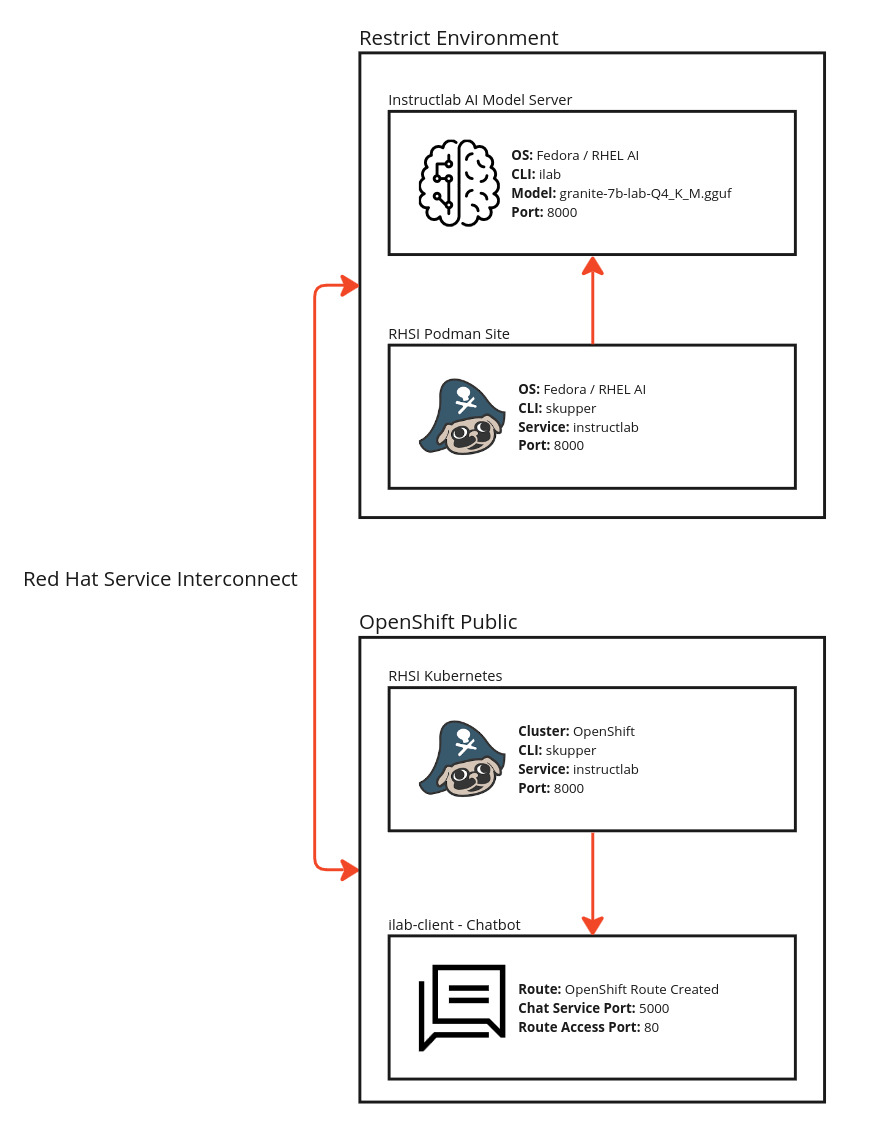
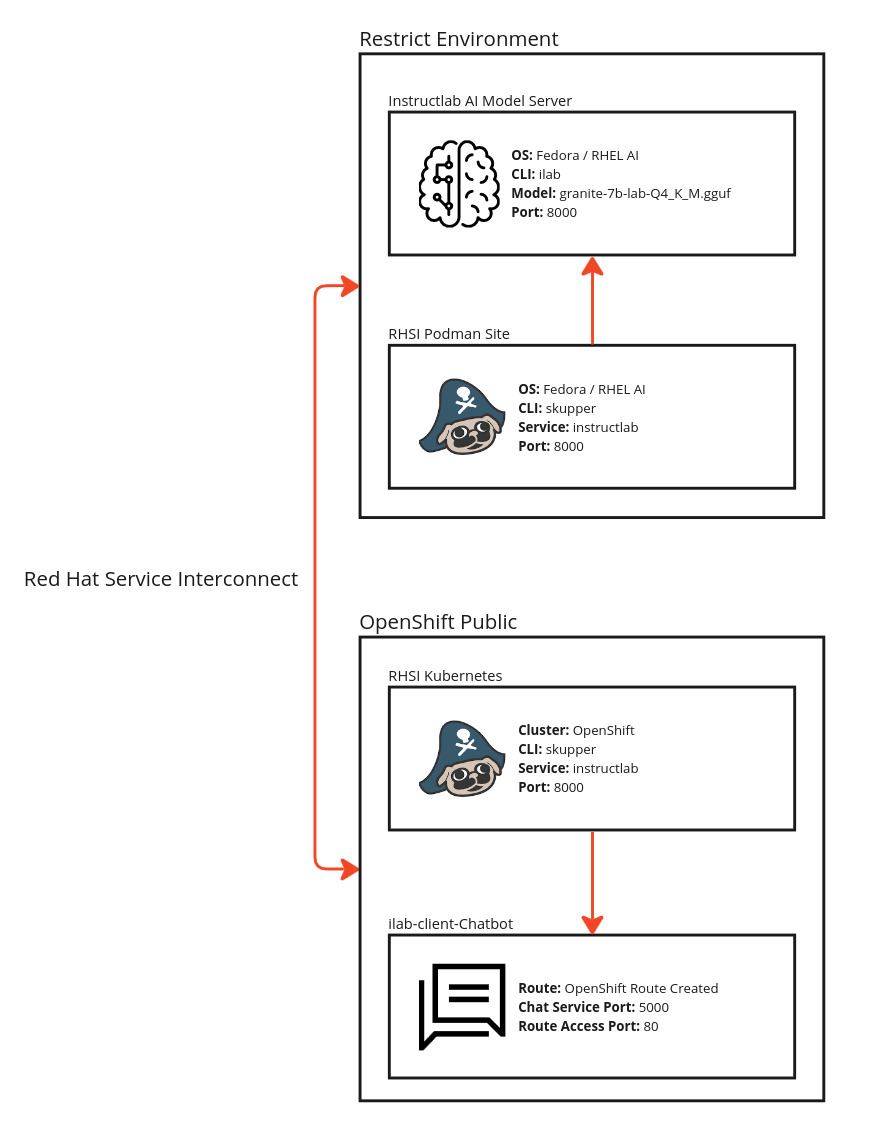
[CI] Publish Documentation for 5ad240d968a473c7c12917c1b20ef10441c422dd - 5ad240d968a473c7c12917c1b20ef10441c422dd 🚀

diff --git a/solution-pattern-template/03-demo.html b/solution-pattern-template/03-demo.html
@@ -347,7 +347,7 @@ INFO 2024-07-30 18:59:01,612 server.py:219: server After application startup com
 <h2 id="_public_skupper_deployment"><a class="anchor" href="#_public_skupper_deployment"></a>Public Skupper Deployment</h2>
 <div class="sectionbody">
 <div class="paragraph">
-<p>Deploy the public Skupper in Site B. The public Skupper will receive the connection from the private Skupper and create a secure connection between the two sites.</p>
+<p>Deploy the public Skupper in Openshift Cluster. The public Skupper will receive the connection from the private Skupper and create a secure connection between the two sites.</p>
 </div>
 <div class="sect2">
 <h3 id="_creating_the_project_and_deploying_the_public_skupper"><a class="anchor" href="#_creating_the_project_and_deploying_the_public_skupper"></a>Creating the project and deploying the public Skupper:</h3>
@@ -457,7 +457,7 @@ skupper init --enable-console --enable-flow-collector --console-user admin --con
 <h2 id="_private_skupper_deployment"><a class="anchor" href="#_private_skupper_deployment"></a>Private Skupper Deployment</h2>
 <div class="sectionbody">
 <div class="paragraph">
-<p>The second step is to deploy the private Skupper in Site A. The private Skupper will be responsible for creating a secure connection between the two sites, allowing the Ollama Pilot application to send requests to the InstructLab chat model.</p>
+<p>The second step is to deploy the private Skupper in Private Local Environment. The private Skupper will be responsible for creating a secure connection between the two sites, allowing the Ollama Pilot application to send requests to the InstructLab chat model.</p>
 </div>
 <div class="sect2">
 <h3 id="_install_skupper"><a class="anchor" href="#_install_skupper"></a>Install Skupper</h3>
@@ -676,74 +676,6 @@ Current links from other sites that are connected:
 <pre class="highlightjs highlight"><code class="language-shell script hljs" data-lang="shell script">skupper service create instructlab 8000</code></pre>
 </div>
 </div>
-<div class="ulist">
-<ul>
-<li>
-<p>Exposing the service to the internet, this command will be executed on the terminal where the <strong>public</strong> Skupper is running and will create a route to expose the service to the internet:</p>
-</li>
-</ul>
-</div>
-<div class="listingblock console-input">
-<div class="content">
-<pre class="highlightjs highlight"><code class="language-shell script hljs" data-lang="shell script">oc expose service instructlab</code></pre>
-</div>
-</div>
-<div class="admonitionblock note">
-<table>
-<tr>
-<td class="icon">
-<i class="fa icon-note" title="Note"></i>
-</td>
-<td class="content">
-<div class="ulist">
-<ul>
-<li>
-<p><code>skupper service create instructlab 8000</code> is used to create a service in the public Skupper, allowing it to be accessed from the private Skupper.</p>
-</li>
-<li>
-<p><code>oc expose service instructlab</code> is used to expose the service to the internet, allowing it to be accessed by the Ollama Pilot application.</p>
-</li>
-</ul>
-</div>
-</td>
-</tr>
-</table>
-</div>
-<div class="ulist">
-<ul>
-<li>
-<p>Getting the public URL:</p>
-</li>
-</ul>
-</div>
-<div class="paragraph">
-<p>This URL will be used to access the chatbot from the Ollama Pilot application.</p>
-</div>
-<div class="listingblock console-input">
-<div class="content">
-<pre class="highlightjs highlight"><code class="language-shell script hljs" data-lang="shell script">oc get route instructlab
-NAME          HOST/PORT                                      PATH          SERVICES                PORT       TERMINATION   WILDCARD
-instructlab   instructlab-ollama-pilot.apps.your-cluster-url instructlab                           port8000   None</code></pre>
-</div>
-</div>
-<div class="admonitionblock note">
-<table>
-<tr>
-<td class="icon">
-<i class="fa icon-note" title="Note"></i>
-</td>
-<td class="content">
-<div class="ulist">
-<ul>
-<li>
-<p><code>oc get route instructlab</code> is used to get the public URL of the service, which will be used to access the chatbot from the Ollama Pilot application.</p>
-</li>
-</ul>
-</div>
-</td>
-</tr>
-</table>
-</div>
 </div>
 </div>
 </div>
@@ -756,8 +688,23 @@ instructlab   instructlab-ollama-pilot.apps.your-cluster-url instructlab        
 <div class="paragraph">
 <p>This application will be deployed in a OpenShift cluster, and will be responsible for sending the user input to the InstructLab chat model and displaying the response to the user. The application will be deployed at the same namespace where the public Skupper is running.</p>
 </div>
-<div class="sect2">
-<h3 id="_deploy_ilab_frontend_chatbot"><a class="anchor" href="#_deploy_ilab_frontend_chatbot"></a>Deploy ILAB Frontend chatbot</h3>
+<div class="admonitionblock important">
+<table>
+<tr>
+<td class="icon">
+<i class="fa icon-important" title="Important"></i>
+</td>
+<td class="content">
+<div class="ulist">
+<ul>
+<li>
+<p>The frontend application called ILAB Frontend chatbot will use the local service in the public cluster to send the user input to the InstructLab chat model and display the response to the user. See the line 23 of the <code>ilab-client-deployment.yaml</code> file.</p>
+</li>
+</ul>
+</div>
+<div class="paragraph">
+<p>=== Deploy ILAB Frontend chatbot</p>
+</div>
 <div class="paragraph">
 <p>To deploy the ILAB Frontend chatbot, lets use the following yaml deployment file, in this case the file is located at <code>~/instructlab/ilab-client-deployment.yaml</code>:</p>
 </div>
@@ -798,13 +745,10 @@ spec:
 <pre class="highlightjs highlight"><code class="language-shell script hljs" data-lang="shell script">oc apply -f ~/instructlab/ilab-client-deployment.yaml</code></pre>
 </div>
 </div>
-<div class="admonitionblock note">
-<table>
-<tr>
-<td class="icon">
-<i class="fa icon-note" title="Note"></i>
 </td>
-<td class="content">
+</tr>
+</table>
+</div>
 <div class="ulist">
 <ul>
 <li>
@@ -818,13 +762,11 @@ spec:
 </li>
 </ul>
 </div>
-</td>
-</tr>
-</table>
+<div class="exampleblock">
+<div class="content">
+<div class="paragraph">
+<p>=== Creating the service of the ILAB Frontend chatbot deployment</p>
 </div>
-</div>
-<div class="sect2">
-<h3 id="_creating_the_service_of_the_ilab_frontend_chatbot_deployment"><a class="anchor" href="#_creating_the_service_of_the_ilab_frontend_chatbot_deployment"></a>Creating the service of the ILAB Frontend chatbot deployment</h3>
 <div class="paragraph">
 <p>Now, let&#8217;s create the service for the ILAB Frontend chatbot deployment, the file is located at <code>~/instructlab/ilab-client-service.yaml</code>:</p>
 </div>
@@ -851,13 +793,8 @@ spec:
 <pre class="highlightjs highlight"><code class="language-shell script hljs" data-lang="shell script">oc apply -f ~/instructlab/ilab-client-service.yaml</code></pre>
 </div>
 </div>
-<div class="admonitionblock note">
-<table>
-<tr>
-<td class="icon">
-<i class="fa icon-note" title="Note"></i>
-</td>
-<td class="content">
+</div>
+</div>
 <div class="ulist">
 <ul>
 <li>
@@ -868,13 +805,11 @@ spec:
 </li>
 </ul>
 </div>
-</td>
-</tr>
-</table>
+<div class="exampleblock">
+<div class="content">
+<div class="paragraph">
+<p>=== Exposing the service of the ILAB Frontend chatbot deployment</p>
 </div>
-</div>
-<div class="sect2">
-<h3 id="_exposing_the_service_of_the_ilab_frontend_chatbot_deployment"><a class="anchor" href="#_exposing_the_service_of_the_ilab_frontend_chatbot_deployment"></a>Exposing the service of the ILAB Frontend chatbot deployment</h3>
 <div class="paragraph">
 <p>We are almost there, now let&#8217;s expose the service of the ILAB Frontend chatbot deployment, the file is located at <code>~/instructlab/ilab-client-route.yaml</code>:</p>
 </div>
@@ -900,13 +835,8 @@ spec:
 <pre class="highlightjs highlight"><code class="language-shell script hljs" data-lang="shell script">oc apply -f ~/instructlab/ilab-client-route.yaml</code></pre>
 </div>
 </div>
-<div class="admonitionblock note">
-<table>
-<tr>
-<td class="icon">
-<i class="fa icon-note" title="Note"></i>
-</td>
-<td class="content">
+</div>
+</div>
 <div class="ulist">
 <ul>
 <li>
@@ -917,13 +847,11 @@ spec:
 </li>
 </ul>
 </div>
-</td>
-</tr>
-</table>
+<div class="exampleblock">
+<div class="content">
+<div class="paragraph">
+<p>=== Accessing the ILAB Frontend chatbot</p>
 </div>
-</div>
-<div class="sect2">
-<h3 id="_accessing_the_ilab_frontend_chatbot"><a class="anchor" href="#_accessing_the_ilab_frontend_chatbot"></a>Accessing the ILAB Frontend chatbot</h3>
 <div class="paragraph">
 <p>Finally, to access the ILAB Frontend chatbot, you can use the following command to get the public URL:</p>
 </div>
@@ -932,13 +860,8 @@ spec:
 <pre class="highlightjs highlight"><code class="language-shell script hljs" data-lang="shell script">oc get route ilab-client-route</code></pre>
 </div>
 </div>
-<div class="admonitionblock note">
-<table>
-<tr>
-<td class="icon">
-<i class="fa icon-note" title="Note"></i>
-</td>
-<td class="content">
+</div>
+</div>
 <div class="ulist">
 <ul>
 <li>
@@ -946,16 +869,11 @@ spec:
 </li>
 </ul>
 </div>
-</td>
-</tr>
-</table>
+<div class="exampleblock">
+<div class="content">
+<div class="paragraph">
+<p>== Interacting with the chatbot</p>
 </div>
-</div>
-</div>
-</div>
-<div class="sect1">
-<h2 id="_interacting_with_the_chatbot"><a class="anchor" href="#_interacting_with_the_chatbot"></a>Interacting with the chatbot</h2>
-<div class="sectionbody">
 <div class="paragraph">
 <p>To interact with the chatbot, you can access the public URL of the ILAB Frontend chatbot using a web browser. The chatbot will be displayed on the screen, and you can start interacting with it by typing messages in the chat window.</p>
 </div>
@@ -964,8 +882,9 @@ spec:
 <img src="_images/chat_bot.png" alt="Chatbot">
 </div>
 </div>
-<div class="sect2">
-<h3 id="_considerations"><a class="anchor" href="#_considerations"></a>Considerations</h3>
+<div class="paragraph">
+<p>=== Considerations</p>
+</div>
 <div class="ulist">
 <ul>
 <li>
@@ -978,6 +897,7 @@ spec:
 <p>Image repository for ilab-client: <a href="https://github.com/rafaelvzago/ilab-client">rafaelvzago/ilab-client</a></p>
 </li>
 </ul>
+</div>
 </div>
 </div>
 </div>

diff --git a/solution-pattern-template/02-architecture.html b/solution-pattern-template/02-architecture.html
@@ -196,7 +196,7 @@
 <h3 id="_architecture_diagram"><a class="anchor" href="#_architecture_diagram"></a>Architecture Diagram</h3>
 <div class="imageblock">
 <div class="content">
-<img src="_images/instructlab_skupper.png" alt="Architecture Overview" width="100%">
+<img src="_images/instructlab_architecture.jpg" alt="Architecture Overview" width="100%">
 </div>
 </div>
 </div>
@@ -239,6 +239,14 @@ Red Hat Service Interconnect (RHSI) enables secure communication between service
 <p><a href="https://instructlab.ai/">InstructLab</a>
 InstructLab is an AI model platform that simplifies the process of training, serving, and managing large language models. It is designed to be flexible and secure, making it ideal for environments where models need to remain private but still serve external requests through controlled access paths.</p>
 </li>
+<li>
+<p><a href="https://www.podman.io/">Podman</a>
+Podman is a container engine that allows users to manage containers without the need for a daemon. It provides a secure and lightweight environment for running containers, making it ideal for deploying AI models and services in isolated environments.</p>
+</li>
+<li>
+<p><a href="https://skupper.io/">Skupper</a>
+Skupper is a secure, distributed messaging platform that enables communication between services across different environments. It creates a secure network overlay that allows services to interact without exposing sensitive data directly, ensuring data privacy and secure communication. We will use the cli version of Skupper to create a secure connection between the private and public environments.</p>
+</li>
 </ul>
 </div>
 </li>
@@ -250,27 +258,22 @@ InstructLab is an AI model platform that simplifies the process of training, ser
 <h2 id="in_depth"><a class="anchor" href="#in_depth"></a>An in-depth look at the solution&#8217;s architecture</h2>
 <div class="sectionbody">
 <div class="paragraph">
-<p>This architecture is based on a hybrid setup where the AI model is trained and served via <strong>InstructLab</strong> in a private environment (Site A) and can only be accessed by external users through a public <strong>OpenShift</strong> site (Site B), using <strong>Skupper</strong> for secure communication. The <strong>Red Hat Service Interconnect (RHSI)</strong> ensures that data exchanged between these two environments remains secure, creating a <strong>Virtual Application Network (VAN)</strong> between the sites.</p>
+<p>This architecture is based on a hybrid setup where the AI model is trained and served via <strong>InstructLab</strong> in a private environment (Private Local Environment) and can only be accessed by external users through a public <strong>OpenShift</strong> site (Openshift Cluster), using <strong>Skupper</strong> for secure communication. The <strong>Red Hat Service Interconnect (RHSI)</strong> ensures that data exchanged between these two environments remains secure, creating a <strong>Virtual Application Network (VAN)</strong> between the sites.</p>
 </div>
 <div class="paragraph">
-<p><strong>Site A</strong> hosts the AI model using InstructLab and is responsible for:
-- Receiving user input exclusively from Site B (OpenShift).
+<p><strong>Private Local Environment</strong> hosts the AI model using InstructLab and is responsible for:
+- Receiving user input exclusively from Openshift Cluster (OpenShift).
 - Sending the input to the LLaMA3 model for processing.
-- Returning the model&#8217;s response to Site B securely.</p>
+- Returning the model&#8217;s response to Openshift Cluster securely.</p>
 </div>
 <div class="paragraph">
-<p><strong>Site B</strong> (OpenShift) serves as the only access point for external clients and is responsible for:
+<p><strong>Openshift Cluster</strong> (OpenShift) serves as the only access point for external clients and is responsible for:
 - Exposing the AI chatbot to external users.
-- Sending requests to the private InstructLab model in Site A.
-- Displaying the AI response from the model hosted in Site A.</p>
+- Sending requests to the private InstructLab model in Private Local Environment.
+- Displaying the AI response from the model hosted in Private Local Environment.</p>
 </div>
 <div class="paragraph">
-<p>By design, the model running in the private environment (Site A) is isolated and cannot be accessed directly by external clients. All interactions with the model are mediated by <strong>OpenShift</strong> (Site B), ensuring a secure and controlled access path.</p>
-</div>
-<div class="imageblock">
-<div class="content">
-<img src="_images/instructlab_architecture.jpg" alt="Architecture Overview" width="100%">
-</div>
+<p>By design, the model running in the private environment (Private Local Environment) is isolated and cannot be accessed directly by external clients. All interactions with the model are mediated by <strong>OpenShift</strong> (Openshift Cluster), ensuring a secure and controlled access path.</p>
 </div>
 <div class="paragraph">
 <p></p>

diff --git a/solution-pattern-template/01-pattern.html b/solution-pattern-template/01-pattern.html
@@ -168,7 +168,7 @@
 <p>Leveraging <strong>Red Hat Service Interconnect (RHSI)</strong>, the team developed a pattern where AI models, served via <strong>InstructLab</strong>, are isolated within private infrastructure but exposed through secure connections into public <strong>OpenShift</strong> environments. The goal was to maintain strict control over the data and model security while providing the flexibility to scale and serve user requests externally.</p>
 </div>
 <div class="paragraph">
-<p>This solution pattern was born from the necessity to balance security, performance, and accessibility, particularly for organizations looking to adopt hybrid cloud strategies. By integrating <strong>Skupper</strong> with <strong>Red Hat Service Interconnect</strong>, the team enabled seamless communication between private and public environments without sacrificing data protection or operational efficiency.</p>
+<p>This solution pattern was born from the necessity to balance security, performance, and accessibility, particularly for organizations looking to adopt hybrid cloud strategies. Using <strong>Red Hat Service Interconnect</strong>* to integrate the AI solution, the team enabled seamless communication between private and public environments without sacrificing data protection or operational efficiency.</p>
 </div>
 <div class="paragraph">
 <p>This architecture ensures that companies can continue to innovate in AI and machine learning while adhering to compliance and security standards, making it ideal for industries such as healthcare, finance, and any domain where data security is paramount.</p>

diff --git a/solution-pattern-template/index.html b/solution-pattern-template/index.html
@@ -229,7 +229,7 @@
 <p>Leveraging <strong>Red Hat Service Interconnect (RHSI)</strong>, the team developed a pattern where AI models, served via <strong>InstructLab</strong>, are isolated within private infrastructure but exposed through secure connections into public <strong>OpenShift</strong> environments. The goal was to maintain strict control over the data and model security while providing the flexibility to scale and serve user requests externally.</p>
 </div>
 <div class="paragraph">
-<p>This solution pattern was born from the necessity to balance security, performance, and accessibility, particularly for organizations looking to adopt hybrid cloud strategies. By integrating <strong>Skupper</strong> with <strong>Red Hat Service Interconnect</strong>, the team enabled seamless communication between private and public environments without sacrificing data protection or operational efficiency.</p>
+<p>This solution pattern was born from the necessity to balance security, performance, and accessibility, particularly for organizations looking to adopt hybrid cloud strategies. Using <strong>Red Hat Service Interconnect</strong>* to integrate the AI solution, the team enabled seamless communication between private and public environments without sacrificing data protection or operational efficiency.</p>
 </div>
 <div class="paragraph">
 <p>This architecture ensures that companies can continue to innovate in AI and machine learning while adhering to compliance and security standards, making it ideal for industries such as healthcare, finance, and any domain where data security is paramount.</p>
